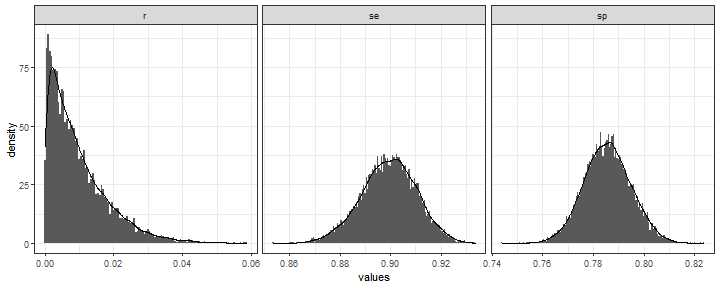
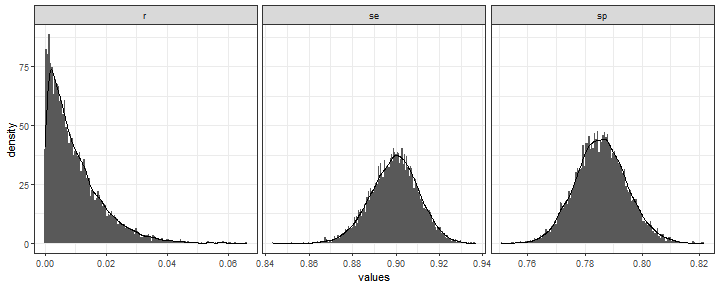
add figure alts

diff --git a/serosurvey-user21.html b/serosurvey-user21.html
@@ -123,7 +123,7 @@ From a [`srvyr`](http://gdfe.co/srvyr/) [`survey`](https://r-survey.r-forge.r-pr
 
 
 ```r
-serosvy_proportion(design = design,
+*serosvy_proportion(design = design,
                    denominator = covariate_01,
                    numerator = outcome_one)
 ```
@@ -162,7 +162,7 @@ Check the [Reference tab](https://avallecam.github.io/serosurvey/reference/index
 --
 
 - We provide __tidy outputs for bayesian approaches__ developed 
-in Larremore, et al. for [known](https://github.com/LarremoreLab/covid_serological_sampling/blob/master/codebase/seroprevalence.R) and [unknown](https://github.com/LarremoreLab/bayesian-joint-prev-se-sp/blob/master/singleSERO_uncertainTEST.R) 
+by Larremore, et al. for [known](https://github.com/LarremoreLab/covid_serological_sampling/blob/master/codebase/seroprevalence.R) and [unknown](https://github.com/LarremoreLab/bayesian-joint-prev-se-sp/blob/master/singleSERO_uncertainTEST.R) 
 test performance.
 
 --
@@ -191,7 +191,7 @@ in [Article tab](https://avallecam.github.io/serosurvey/articles/howto-reprex.ht
 
 
 ```r
-serosvy_known_sample_posterior(
+*serosvy_known_sample_posterior(
   #in population
   positive_number_test = 321,
   total_number_test = 321+1234,
@@ -200,7 +200,7 @@ serosvy_known_sample_posterior(
   specificity = 0.975)
 ```
 
-![](serosurvey-user21_files/figure-html/unnamed-chunk-9-1.png)&lt;!-- --&gt;
+&lt;img src="serosurvey-user21_files/figure-html/unnamed-chunk-9-1.png" title="One ggplot panel with density as vertical y-axis. Histogram and density plot of the Posterior Distribution of the Prevalence accounting for misclassification from a diagnostic test with known performance. Additionally, it includes vertical lines at the mean, 5% and 95% percentiles." alt="One ggplot panel with density as vertical y-axis. Histogram and density plot of the Posterior Distribution of the Prevalence accounting for misclassification from a diagnostic test with known performance. Additionally, it includes vertical lines at the mean, 5% and 95% percentiles."  /&gt;
 
 
 
@@ -220,7 +220,7 @@ certainty.
 
 
 ```r
-serosvy_unknown_sample_posterior_ii(
+*serosvy_unknown_sample_posterior_ii(
   #in population
   positive_number_test = 321,
   total_number_test = 321+1234,
@@ -231,7 +231,7 @@ serosvy_unknown_sample_posterior_ii(
   false_negative = 74)
 ```
 
-![](serosurvey-user21_files/figure-html/unnamed-chunk-13-1.png)&lt;!-- --&gt;
+&lt;img src="serosurvey-user21_files/figure-html/unnamed-chunk-13-1.png" title="Three ggplot facet panels with the same vertical y-axis of density. Histogram and density plots of the Posterior Distribution of the (i) r: Prevalence accounting for misclassification from a diagnostic test with unknown performance; (ii) se: Sensitivity; (iii) sp: Specificity." alt="Three ggplot facet panels with the same vertical y-axis of density. Histogram and density plots of the Posterior Distribution of the (i) r: Prevalence accounting for misclassification from a diagnostic test with unknown performance; (ii) se: Sensitivity; (iii) sp: Specificity."  /&gt;
 
 
 
@@ -261,21 +261,21 @@ we provide a workflow to __estimate multiple prevalences__:
 
 ```r
 # set 01 of denominator-numerator
-expand_grid(
+*expand_grid(
   design=list(design),
   denominator=c("covariate_01","covariate_02"), # covariates
   numerator=c("outcome_one","outcome_two") # outcomes
   ) %&gt;% 
   # set 02 of denominator-numerator (e.g. within main outcome)
-  union_all(
+* union_all(
     expand_grid(
       design=list(design),
       denominator=c("outcome_one","outcome_two"), # outcomes
       numerator=c("covariate_02") # covariates
     )) %&gt;%
-  # create symbols (to be read as arguments)
+  # create symbols (to be read as arguments) 
   mutate(
-    denominator=map(denominator,dplyr::sym),
+*   denominator=map(denominator,dplyr::sym),
     numerator=map(numerator,dplyr::sym)
   ) %&gt;%
   # estimate prevalence
